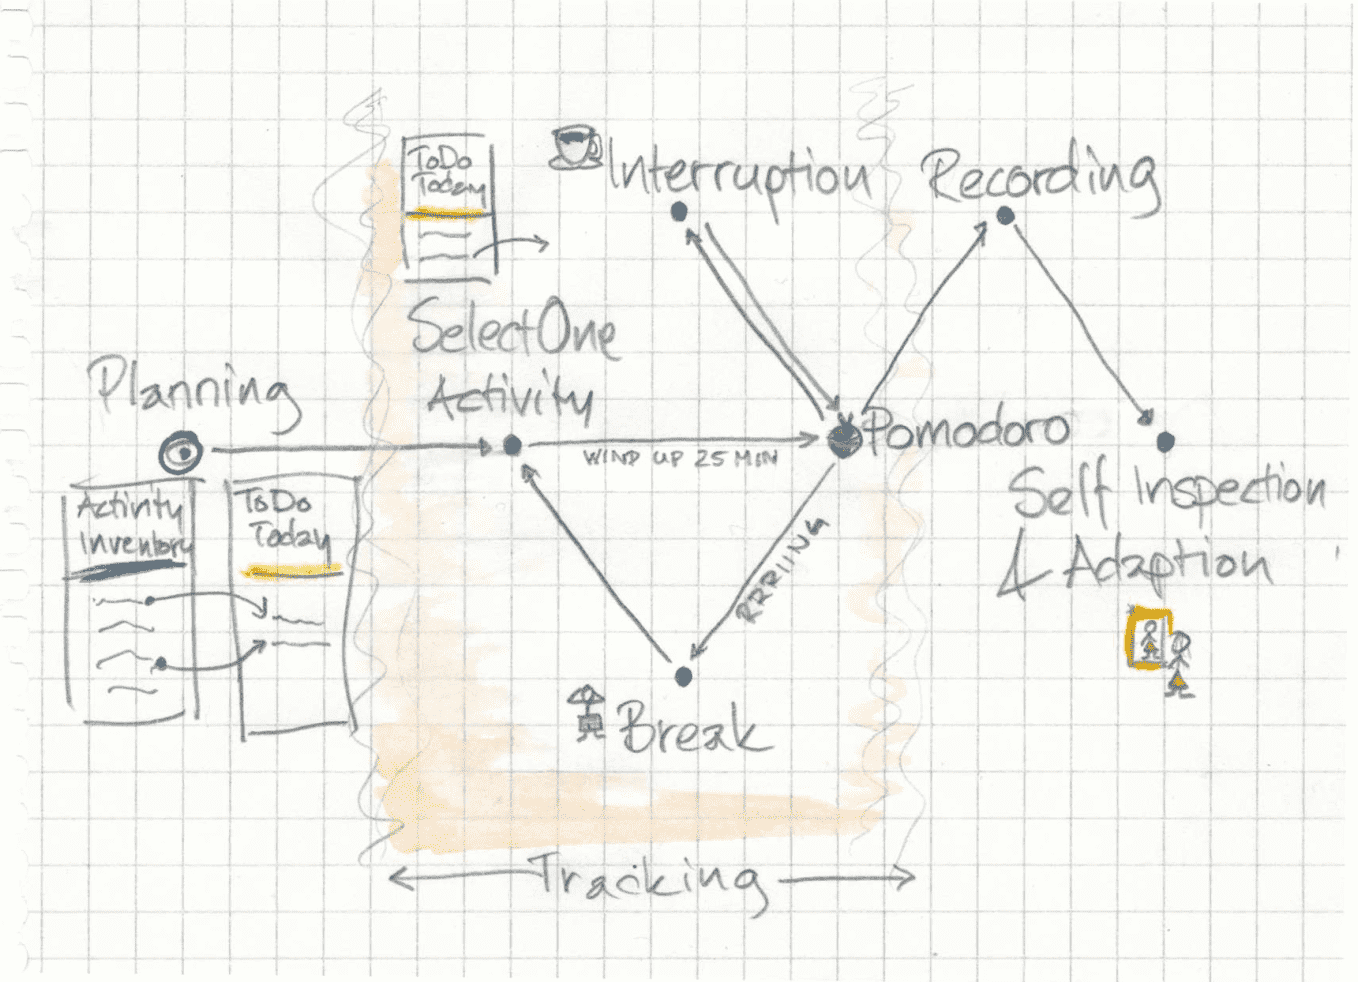
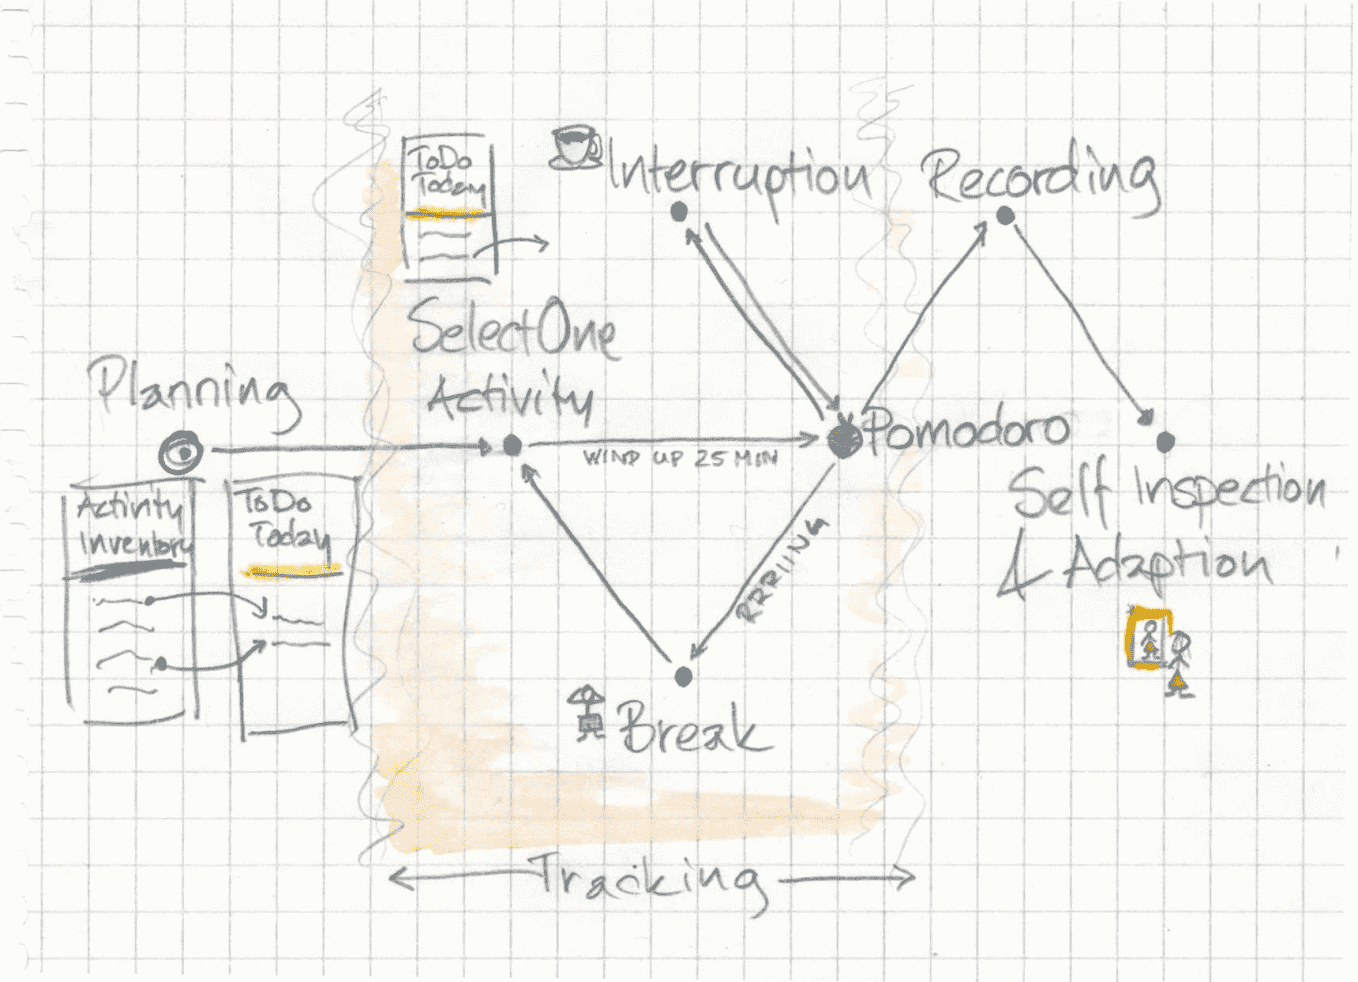
Update pomodoro

diff --git a/content/posts/20220101-1458-pomodoro/index.zh-cn.md b/content/posts/20220101-1458-pomodoro/index.zh-cn.md
@@ -221,9 +221,9 @@ lightgallery: true
 
 > 一个番茄钟是25分钟的周期；多个番茄钟组成更大的每日周期；每天早晨进行计划，傍晚进行回顾；在一个番茄钟内，专心致志于单个活动。
 
-作者在书中绘制了番茄工作法的每日周期，整个流程如下：
+网友[佐依｜理想生活設計](https://www.pinterest.at/zoeykco/)根据书中的内容，绘制了精美的番茄工作法的每日周期，整个流程如下：
 
-![pomodoro_process](pomodoro_process.jpeg)
+![pomodoro_process](pomodoro_process.png)
 
 我将每日周期进一步按照PDCA流程归纳分解后，思维导图如下：
 
